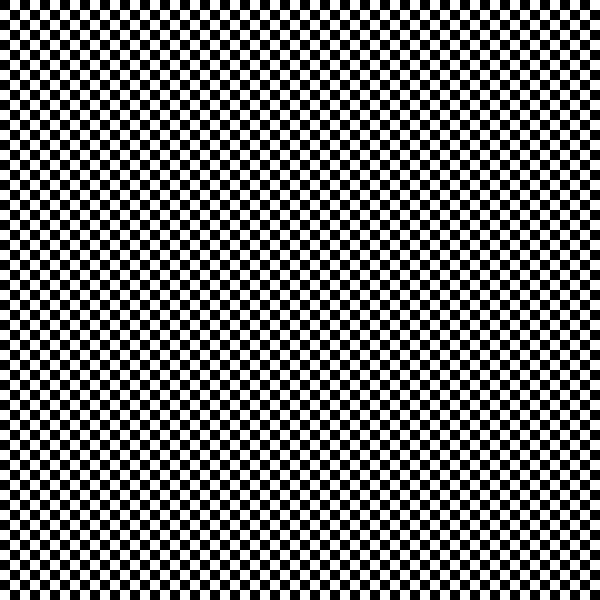
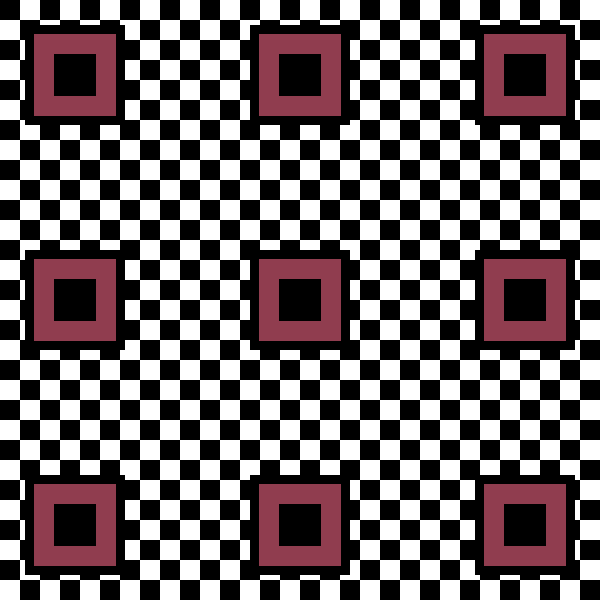
Add goncu tiles

diff --git a/src/goncu/goncu.py b/src/goncu/goncu.py
@@ -5,10 +5,13 @@ import random
 
 CANVAS_WIDTH = 600
 CANVAS_HEIGHT = 600
-RECT_BASE_WIDTH = 10
-RECT_WIDTH = 40
+RECT_BASE_WIDTH = 20
+RECT_TILE_WIDTH = 100
+STEP_IN_TILE = 20
+STEP_TILE = 50
 COLOR_BLACK_BGR = (0, 0, 0)
 COLOR_WHITE_BGR = (255, 255, 255)
+COLOR_BROWN_BGR = (79, 61, 144)
 
 
 def create_canvas(h, w, c):
@@ -34,8 +37,27 @@ def draw_base(img, rect_base_width):
             roi_fill_color(img, (pt1, pt2), clr)
 
 
-def draw_rects(img, rect_width):
-    pass
+def gen_tile(pts_h, pts_w, rect_tile_width, step_tile, step_in_tile):
+    for pt_h in pts_h:
+        for pt_w in pts_w:
+            roi_outer = [(pt_h, pt_w), (pt_h + rect_tile_width, pt_w + rect_tile_width)]
+            roi_mid = [(pt_h + 9, pt_w + 9), (pt_h + rect_tile_width - 9, pt_w + rect_tile_width - 9)]
+            roi_inner = [(pt_h + 9 + step_in_tile, pt_w + 9 + step_in_tile),
+                         (pt_h + rect_tile_width - 9 - step_in_tile, pt_w + rect_tile_width - 9 - step_in_tile)]
+            yield [roi_outer, roi_mid, roi_inner]
+
+
+def draw_tiles(img, rect_tile_width, step_tile, step_in_tile):
+    h_canvas, w_canvas, _ = img.shape
+    pts_h = np.arange(int(step_tile * 1 / 2), h_canvas + step_tile * 2, step=rect_tile_width + 5 / 2 * step_tile)
+    pts_w = np.arange(int(step_tile * 1 / 2), w_canvas + step_tile * 2, step=rect_tile_width + 5 / 2 * step_tile)
+    num_tiles = len(pts_h) * len(pts_w)
+    gen_t = gen_tile(pts_h, pts_w, rect_tile_width, step_tile, step_in_tile)
+    for i in range(num_tiles):
+        roi_outer, roi_mid, roi_inner = next(gen_t)
+        roi_fill_color(img, roi_outer, COLOR_BLACK_BGR)
+        roi_fill_color(img, roi_mid, COLOR_BROWN_BGR)
+        roi_fill_color(img, roi_inner, COLOR_BLACK_BGR)
 
 
 def roi_fill_color(img, roi, color):
@@ -47,7 +69,7 @@ if __name__ == '__main__':
     img = create_canvas(CANVAS_HEIGHT, CANVAS_WIDTH, 0)
 
     draw_base(img, RECT_BASE_WIDTH)
-    draw_rects(img, RECT_WIDTH)
+    draw_tiles(img, RECT_TILE_WIDTH, STEP_TILE, STEP_IN_TILE)
 
     cv2.imshow('goncu', img)
     cv2.imwrite('goncu.png', img)
